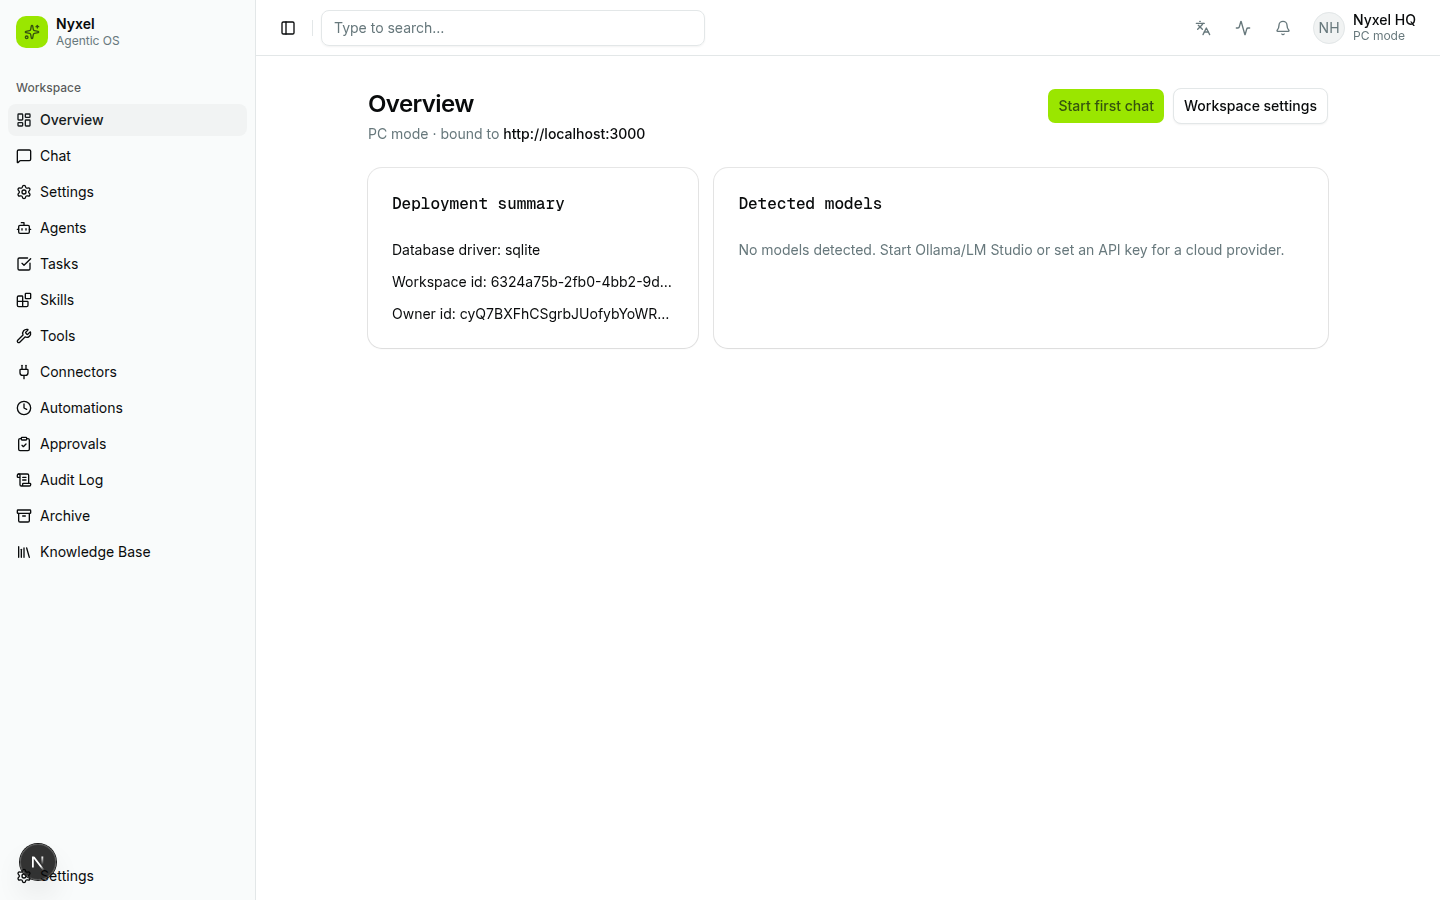
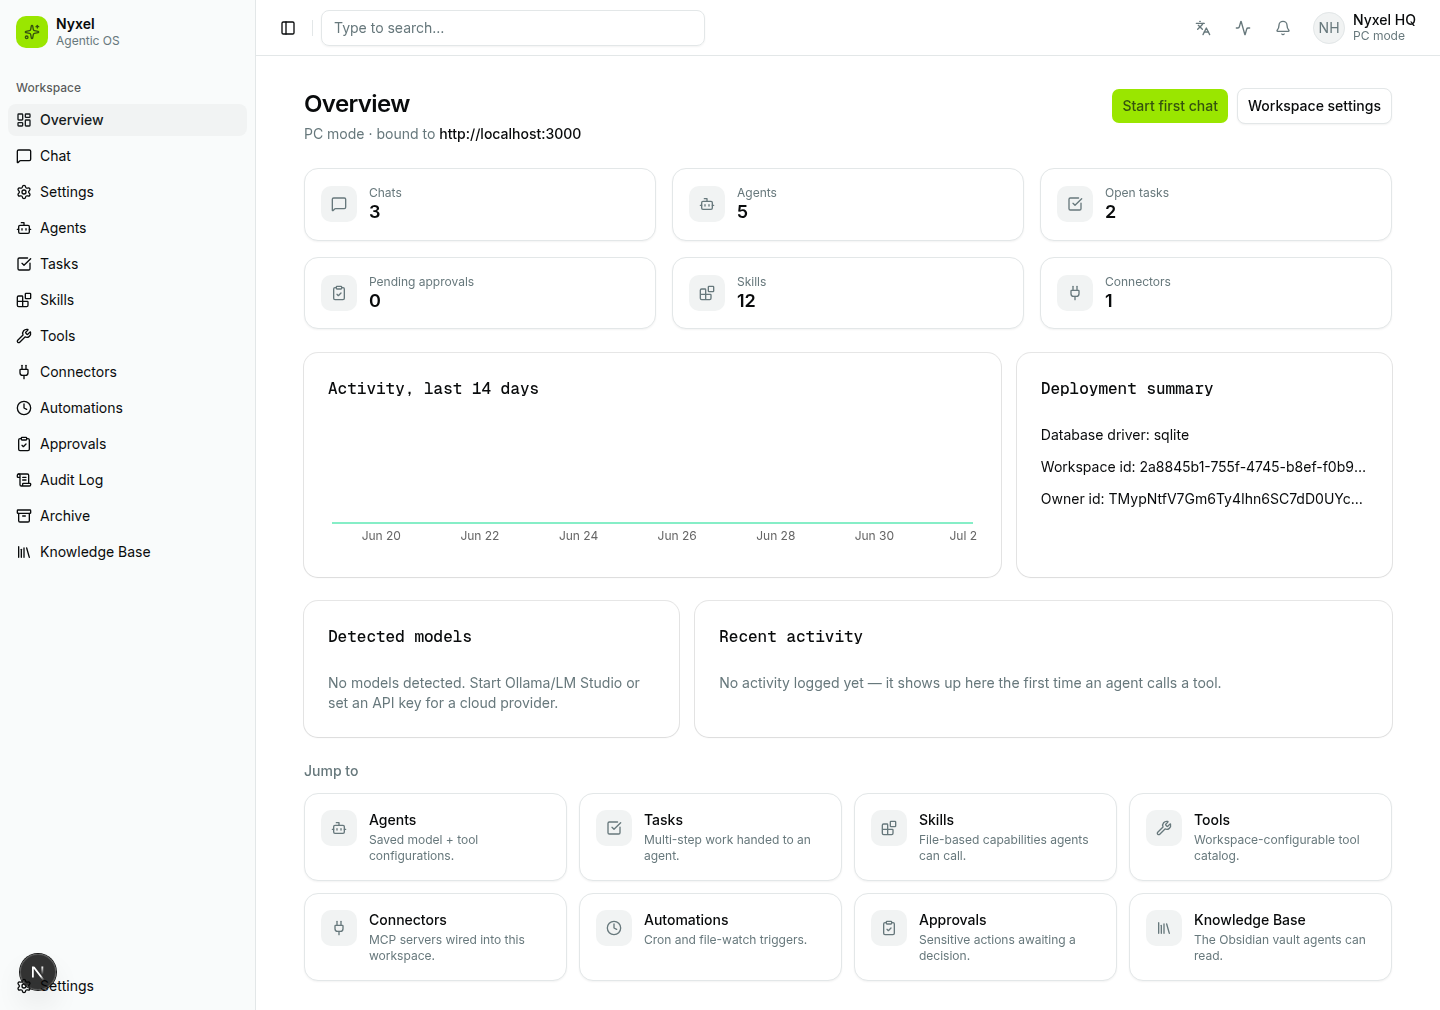
feat: rework the Overview page into a real dashboard
Replace the two-card Overview with stat tiles (chats, agents, open
tasks, pending approvals, skills, connectors), a 14-day tool-call
activity sparkline, a recent-activity feed, and a "Jump to" quick-links
grid — reusing the existing StatCard/chart/badge patterns from the
agents and audit-log pages for visual consistency. Refreshed the
overview-dashboard.png screenshot in the README to match.

diff --git a/apps/web/src/app/page.tsx b/apps/web/src/app/page.tsx
@@ -1,20 +1,137 @@
 "use client";
 
 import { useMutation, useQuery } from "@tanstack/react-query";
-import { Database, Globe, ShieldCheck } from "lucide-react";
+import {
+  ArrowRight,
+  Blocks,
+  Bot,
+  CheckSquare,
+  ClipboardCheck,
+  Clock,
+  Database,
+  Globe,
+  Library,
+  MessageSquare,
+  Plug,
+  ShieldCheck,
+  Wrench,
+} from "lucide-react";
 import Link from "next/link";
 import { useRouter } from "next/navigation";
 import { useEffect, useState } from "react";
+import { Area, AreaChart, XAxis } from "recharts";
 import { BrandMark } from "@/components/brand-mark";
-import { Spinner } from "@/components/loading";
-import { PageHeader } from "@/components/page-header";
+import { CardListSkeleton, Spinner, StatCardsSkeleton } from "@/components/loading";
+import { PageHeader, StatCard } from "@/components/page-header";
 import { SystemScreen } from "@/components/system-screen";
+import { Badge } from "@/components/ui/badge";
 import { Button } from "@/components/ui/button";
 import { Card, CardContent, CardHeader, CardTitle } from "@/components/ui/card";
+import { ChartContainer } from "@/components/ui/chart";
 import { Input } from "@/components/ui/input";
 import { Label } from "@/components/ui/label";
 import { Skeleton } from "@/components/ui/skeleton";
-import { type InstallationMode, trpcClient } from "@/lib/trpc";
+import {
+  type AuditLogSummary,
+  type AuditStatus,
+  type InstallationMode,
+  trpcClient,
+} from "@/lib/trpc";
+
+const AUDIT_STATUS_LABEL: Record<AuditStatus, string> = {
+  success: "Success",
+  error: "Error",
+  pending_approval: "Pending approval",
+  rejected: "Rejected",
+};
+
+const AUDIT_STATUS_BADGE: Record<AuditStatus, string> = {
+  success: "border-0 bg-green-500/15 text-green-700 dark:bg-green-500/10 dark:text-green-400",
+  error: "border-0 bg-rose-500/15 text-rose-700 dark:bg-rose-500/10 dark:text-rose-400",
+  pending_approval:
+    "border-0 bg-amber-500/15 text-amber-700 dark:bg-amber-500/10 dark:text-amber-300",
+  rejected: "border-0 bg-muted text-muted-foreground",
+};
+
+const OPEN_TASK_STATUSES = new Set([
+  "pending",
+  "planning",
+  "ready",
+  "running",
+  "blocked",
+  "waiting_approval",
+]);
+
+const QUICK_LINKS = [
+  {
+    label: "Agents",
+    description: "Saved model + tool configurations.",
+    icon: Bot,
+    path: "agents",
+  },
+  {
+    label: "Tasks",
+    description: "Multi-step work handed to an agent.",
+    icon: CheckSquare,
+    path: "tasks",
+  },
+  {
+    label: "Skills",
+    description: "File-based capabilities agents can call.",
+    icon: Blocks,
+    path: "skills",
+  },
+  {
+    label: "Tools",
+    description: "Workspace-configurable tool catalog.",
+    icon: Wrench,
+    path: "tools",
+  },
+  {
+    label: "Connectors",
+    description: "MCP servers wired into this workspace.",
+    icon: Plug,
+    path: "mcp-servers",
+  },
+  {
+    label: "Automations",
+    description: "Cron and file-watch triggers.",
+    icon: Clock,
+    path: "automations",
+  },
+  {
+    label: "Approvals",
+    description: "Sensitive actions awaiting a decision.",
+    icon: ClipboardCheck,
+    path: "approvals",
+  },
+  {
+    label: "Knowledge Base",
+    description: "The Obsidian vault agents can read.",
+    icon: Library,
+    path: "knowledge-base",
+  },
+] as const;
+
+/** Buckets audit entries into the last 14 calendar days for the activity sparkline. */
+function buildDailyActivity(entries: AuditLogSummary[]) {
+  const counts = new Map<string, number>();
+  for (const entry of entries) {
+    const key = new Date(entry.createdAt).toLocaleDateString(undefined, {
+      month: "short",
+      day: "numeric",
+    });
+    counts.set(key, (counts.get(key) ?? 0) + 1);
+  }
+  const days: { date: string; calls: number }[] = [];
+  for (let i = 13; i >= 0; i--) {
+    const d = new Date();
+    d.setDate(d.getDate() - i);
+    const key = d.toLocaleDateString(undefined, { month: "short", day: "numeric" });
+    days.push({ date: key, calls: counts.get(key) ?? 0 });
+  }
+  return days;
+}
 
 type InstallForm = {
   mode: InstallationMode;
@@ -68,14 +185,64 @@ export default function HomePage() {
     queryKey: ["installation", "status"],
     queryFn: () => trpcClient.installation.status.query(),
   });
+  const workspaceId = installationQuery.data?.record?.primaryWorkspaceId;
+  const dashboardEnabled = installationQuery.data?.isInstalled === true && Boolean(workspaceId);
+
   const modelsQuery = useQuery({
     queryKey: ["models", "list"],
-    queryFn: () =>
-      trpcClient.models.list.query({
-        workspaceId: installationQuery.data?.record?.primaryWorkspaceId,
-      }),
+    queryFn: () => trpcClient.models.list.query({ workspaceId }),
     enabled: installationQuery.data?.isInstalled === true,
   });
+  const chatsQuery = useQuery({
+    queryKey: ["chats", "list", workspaceId],
+    queryFn: () => trpcClient.chats.list.query({ workspaceId: workspaceId! }),
+    enabled: dashboardEnabled,
+  });
+  const agentsQuery = useQuery({
+    queryKey: ["agents", "list", workspaceId],
+    queryFn: () => trpcClient.agents.list.query({ workspaceId: workspaceId! }),
+    enabled: dashboardEnabled,
+  });
+  const tasksQuery = useQuery({
+    queryKey: ["tasks", "list", workspaceId],
+    queryFn: () => trpcClient.tasks.list.query({ workspaceId: workspaceId! }),
+    enabled: dashboardEnabled,
+  });
+  const approvalsQuery = useQuery({
+    queryKey: ["approvals", "list", workspaceId, "pending"],
+    queryFn: () =>
+      trpcClient.approvals.list.query({ workspaceId: workspaceId!, status: "pending" }),
+    enabled: dashboardEnabled,
+  });
+  const skillsQuery = useQuery({
+    queryKey: ["skills", "list", workspaceId],
+    queryFn: () => trpcClient.skills.list.query({ workspaceId: workspaceId! }),
+    enabled: dashboardEnabled,
+  });
+  const mcpServersQuery = useQuery({
+    queryKey: ["mcpServers", "list", workspaceId],
+    queryFn: () => trpcClient.mcpServers.list.query({ workspaceId: workspaceId! }),
+    enabled: dashboardEnabled,
+  });
+  const auditLogQuery = useQuery({
+    queryKey: ["auditLog", "list", workspaceId, 50],
+    queryFn: () => trpcClient.auditLog.list.query({ workspaceId: workspaceId!, limit: 50 }),
+    enabled: dashboardEnabled,
+    refetchInterval: 15_000,
+  });
+
+  const statsLoading =
+    chatsQuery.isLoading ||
+    agentsQuery.isLoading ||
+    tasksQuery.isLoading ||
+    approvalsQuery.isLoading ||
+    skillsQuery.isLoading ||
+    mcpServersQuery.isLoading;
+
+  const openTaskCount =
+    tasksQuery.data?.filter((task) => OPEN_TASK_STATUSES.has(task.status)).length ?? 0;
+  const auditEntries = auditLogQuery.data ?? [];
+  const dailyActivity = buildDailyActivity(auditEntries);
 
   const [form, setForm] = useState<InstallForm>({
     mode: "pc",
@@ -315,10 +482,8 @@ export default function HomePage() {
     );
   }
 
-  const workspaceId = installationQuery.data.record?.primaryWorkspaceId;
-
   return (
-    <div className="mx-auto w-full max-w-5xl space-y-6 p-4 sm:p-6 md:p-8">
+    <div className="mx-auto w-full max-w-6xl space-y-6 p-4 sm:p-6 md:p-8">
       <PageHeader
         title="Overview"
         description={
@@ -342,7 +507,77 @@ export default function HomePage() {
         }
       />
 
-      <section className="grid gap-4 lg:grid-cols-[0.7fr_1.3fr]">
+      {statsLoading ? (
+        <StatCardsSkeleton count={6} />
+      ) : (
+        <section className="grid gap-4 sm:grid-cols-2 lg:grid-cols-3">
+          <StatCard
+            label="Chats"
+            value={chatsQuery.data?.length ?? 0}
+            icon={<MessageSquare className="size-4" />}
+          />
+          <StatCard
+            label="Agents"
+            value={agentsQuery.data?.length ?? 0}
+            icon={<Bot className="size-4" />}
+          />
+          <StatCard
+            label="Open tasks"
+            value={openTaskCount}
+            icon={<CheckSquare className="size-4" />}
+          />
+          <StatCard
+            label="Pending approvals"
+            value={approvalsQuery.data?.length ?? 0}
+            icon={<ClipboardCheck className="size-4" />}
+          />
+          <StatCard
+            label="Skills"
+            value={skillsQuery.data?.length ?? 0}
+            icon={<Blocks className="size-4" />}
+          />
+          <StatCard
+            label="Connectors"
+            value={mcpServersQuery.data?.length ?? 0}
+            icon={<Plug className="size-4" />}
+          />
+        </section>
+      )}
+
+      <section className="grid gap-4 lg:grid-cols-[1.3fr_0.7fr]">
+        <Card>
+          <CardHeader>
+            <CardTitle>Activity, last 14 days</CardTitle>
+          </CardHeader>
+          <CardContent>
+            {auditLogQuery.isLoading ? (
+              <Skeleton className="h-32 w-full rounded-lg" />
+            ) : (
+              <ChartContainer
+                className="aspect-auto h-32 w-full"
+                config={{ calls: { label: "Tool calls", color: "var(--chart-1)" } }}
+              >
+                <AreaChart data={dailyActivity} margin={{ top: 4, right: 4, left: 4, bottom: 0 }}>
+                  <defs>
+                    <linearGradient id="overviewActivityGradient" x1="0" y1="0" x2="0" y2="1">
+                      <stop offset="5%" stopColor="var(--chart-1)" stopOpacity={0.35} />
+                      <stop offset="95%" stopColor="var(--chart-1)" stopOpacity={0} />
+                    </linearGradient>
+                  </defs>
+                  <XAxis dataKey="date" tickLine={false} axisLine={false} minTickGap={24} />
+                  <Area
+                    dataKey="calls"
+                    type="monotone"
+                    stroke="var(--chart-1)"
+                    fill="url(#overviewActivityGradient)"
+                    strokeWidth={1.5}
+                  />
+                </AreaChart>
+              </ChartContainer>
+            )}
+          </CardContent>
+        </Card>
+
         <Card>
           <CardHeader>
             <CardTitle>Deployment summary</CardTitle>
@@ -353,7 +588,9 @@ export default function HomePage() {
             <p className="truncate">Owner id: {installationQuery.data.record?.ownerUserId}</p>
           </CardContent>
         </Card>
+      </section>
 
+      <section className="grid gap-4 lg:grid-cols-[0.7fr_1.3fr]">
         <Card>
           <CardHeader>
             <CardTitle>Detected models</CardTitle>
@@ -390,7 +627,70 @@ export default function HomePage() {
             </ul>
           </CardContent>
         </Card>
+
+        <Card>
+          <CardHeader>
+            <CardTitle>Recent activity</CardTitle>
+          </CardHeader>
+          <CardContent>
+            {auditLogQuery.isLoading ? (
+              <CardListSkeleton rows={4} />
+            ) : auditEntries.length === 0 ? (
+              <p className="text-sm text-muted-foreground">
+                No activity logged yet — it shows up here the first time an agent calls a tool.
+              </p>
+            ) : (
+              <ul className="space-y-2">
+                {auditEntries.slice(0, 6).map((entry) => (
+                  <li
+                    key={entry.id}
+                    className="flex items-center justify-between gap-4 rounded-lg border px-4 py-3 text-sm"
+                  >
+                    <div className="min-w-0">
+                      <p className="truncate font-medium">{entry.toolLabel}</p>
+                      <p className="text-xs text-muted-foreground capitalize">{entry.actor}</p>
+                    </div>
+                    <div className="flex shrink-0 items-center gap-3">
+                      <span className="text-xs text-muted-foreground">
+                        {new Date(entry.createdAt).toLocaleString()}
+                      </span>
+                      <Badge variant="outline" className={AUDIT_STATUS_BADGE[entry.status]}>
+                        {AUDIT_STATUS_LABEL[entry.status] ?? entry.status}
+                      </Badge>
+                    </div>
+                  </li>
+                ))}
+              </ul>
+            )}
+          </CardContent>
+        </Card>
       </section>
+
+      {workspaceId && (
+        <section className="space-y-3">
+          <h2 className="text-sm font-medium text-muted-foreground">Jump to</h2>
+          <div className="grid gap-3 sm:grid-cols-2 lg:grid-cols-4">
+            {QUICK_LINKS.map(({ label, description, icon: Icon, path }) => (
+              <Link
+                key={path}
+                href={`/workspace/${workspaceId}/${path}`}
+                className="group flex items-start gap-3 rounded-xl border bg-card p-4 shadow-xs transition hover:border-primary/40 hover:bg-accent"
+              >
+                <div className="flex size-9 shrink-0 items-center justify-center rounded-lg bg-muted text-muted-foreground">
+                  <Icon className="size-4" />
+                </div>
+                <div className="min-w-0 flex-1">
+                  <p className="flex items-center gap-1 text-sm font-medium">
+                    {label}
+                    <ArrowRight className="size-3.5 shrink-0 -translate-x-0.5 opacity-0 transition group-hover:translate-x-0 group-hover:opacity-100" />
+                  </p>
+                  <p className="mt-0.5 text-xs text-muted-foreground">{description}</p>
+                </div>
+              </Link>
+            ))}
+          </div>
+        </section>
+      )}
     </div>
   );
 }